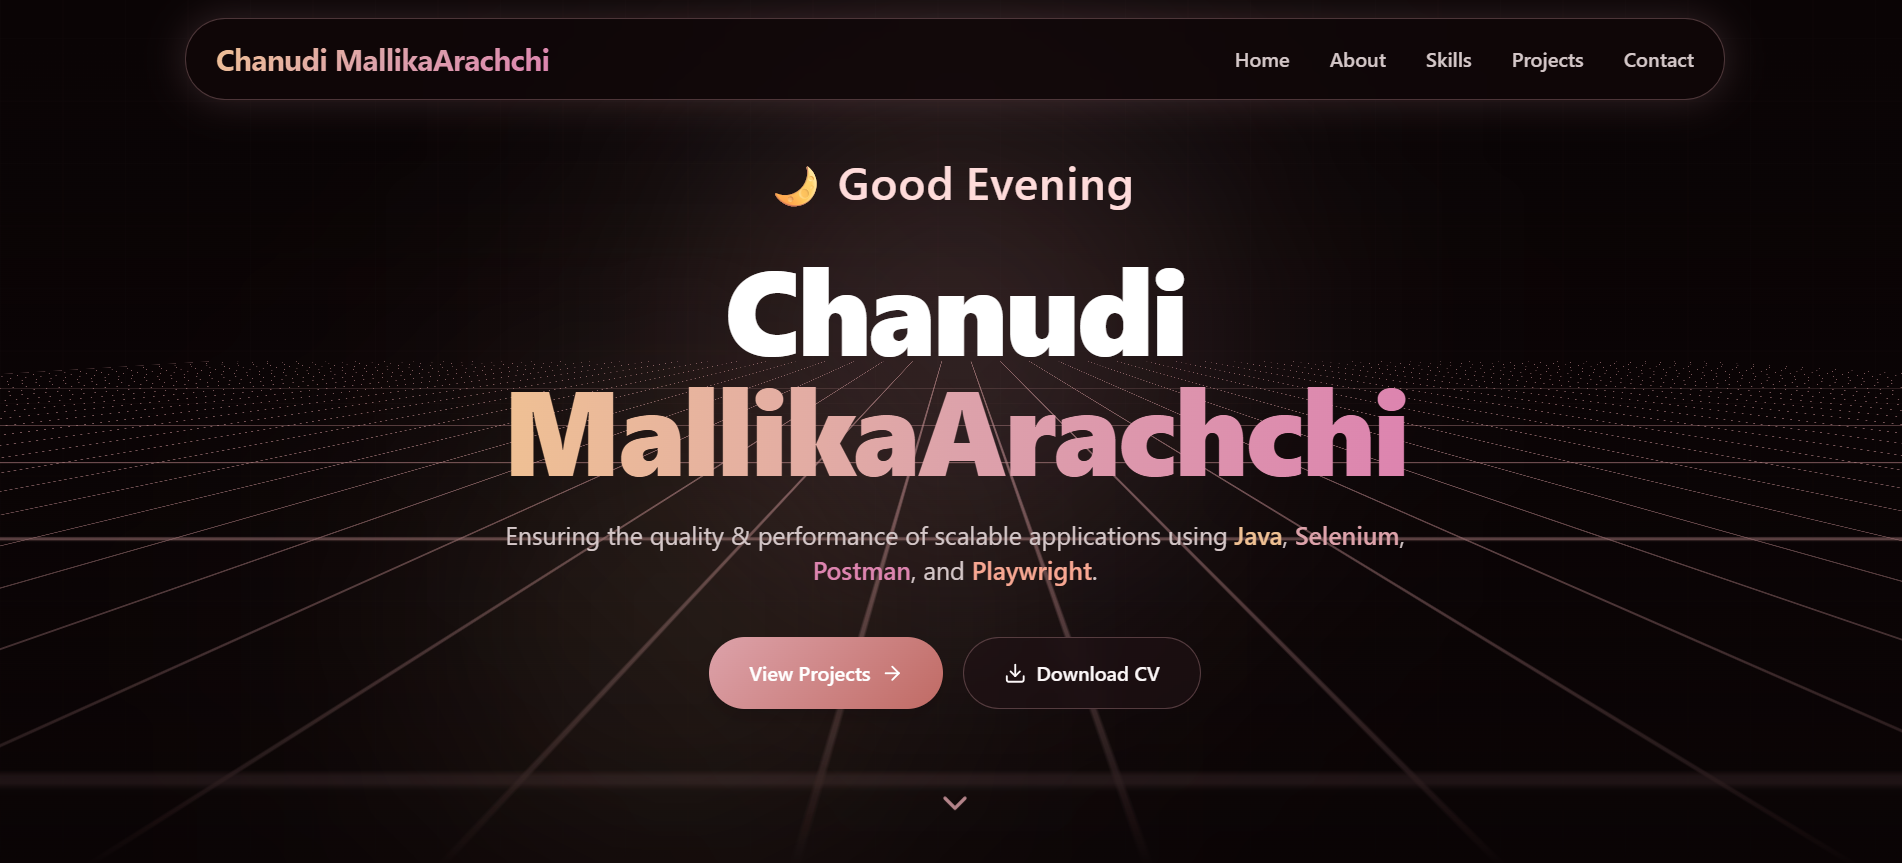
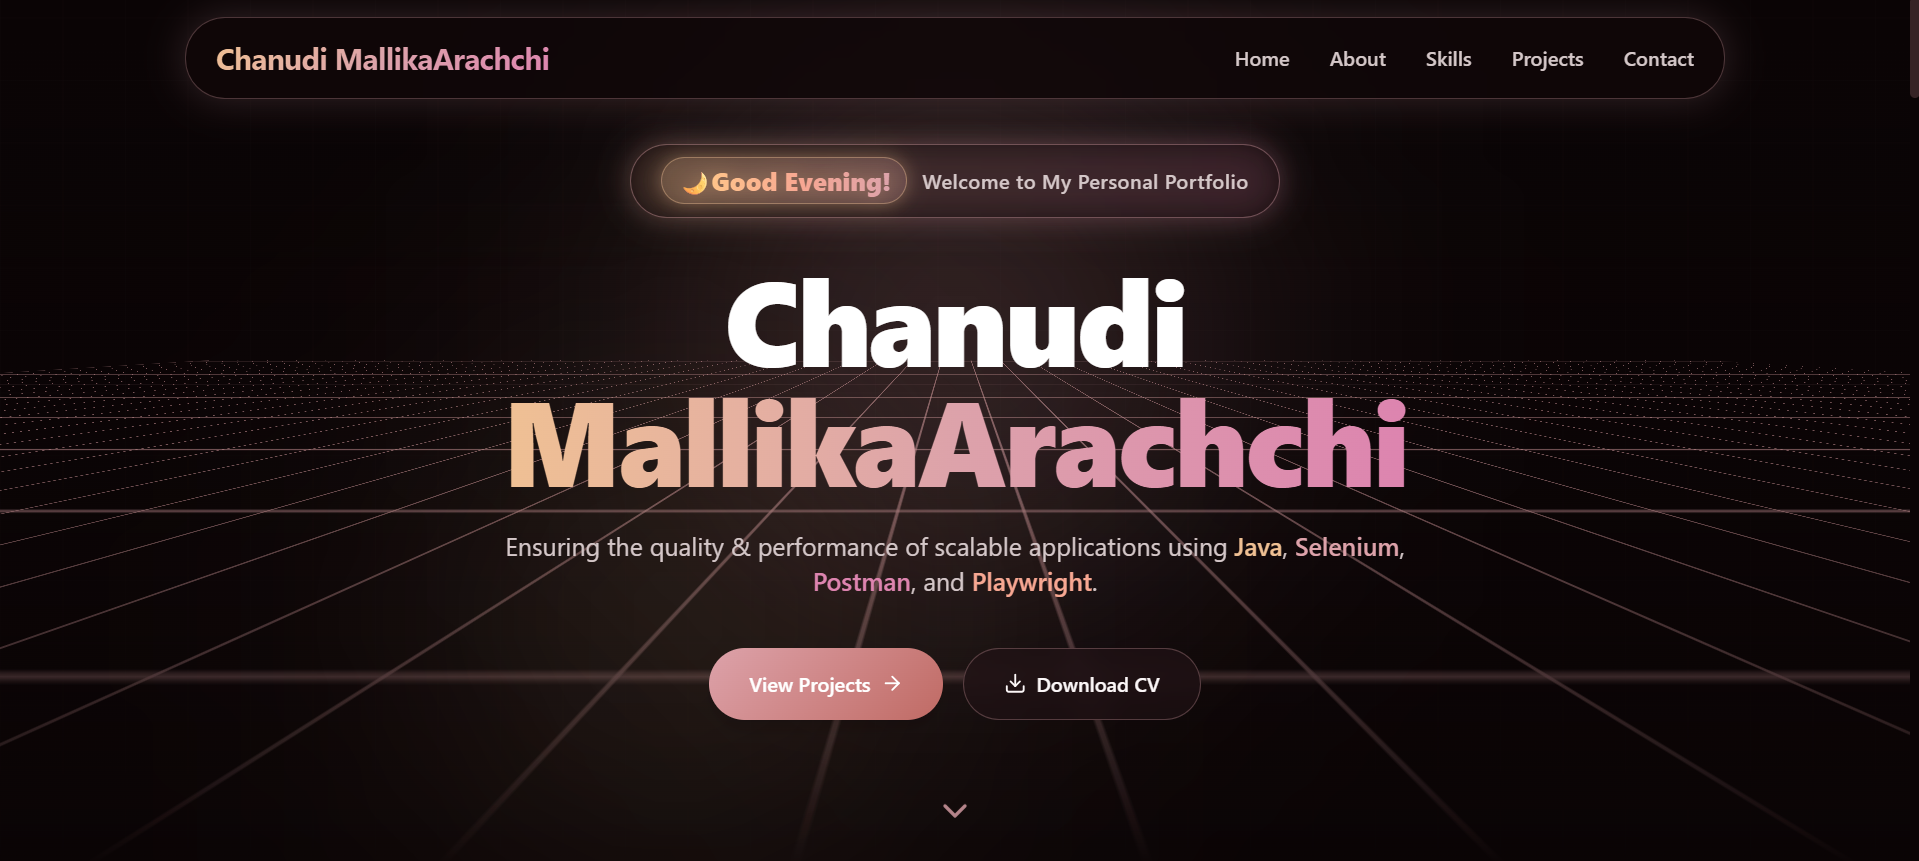
Upload edited files

diff --git a/components/Home.tsx b/components/Home.tsx
@@ -6,16 +6,20 @@ import { TextAnimate } from "@/registry/magicui/text-animate";
 import { RetroGrid } from "@/registry/magicui/retro-grid";
 
 export default function Home() {
-  const [greeting, setGreeting] = useState("✨ Welcome to My Personal Portfolio");
+  const [greetingTime, setGreetingTime] = useState("Good Evening!");
+  const [timeIcon, setTimeIcon] = useState<"morning" | "afternoon" | "evening" | "default">("evening");
 
   useEffect(() => {
     const hour = new Date().getHours();
     if (hour >= 5 && hour < 12) {
-      setGreeting("☀ Good Morning! Welcome to My Personal Portfolio");
+      setGreetingTime("Good Morning!");
+      setTimeIcon("morning");
     } else if (hour >= 12 && hour < 17) {
-      setGreeting("☀ Good Afternoon! Welcome to My Personal Portfolio");
+      setGreetingTime("Good Afternoon!");
+      setTimeIcon("afternoon");
     } else {
-      setGreeting("🌙 Good Evening! Welcome to My Personal Portfolio");
+      setGreetingTime("Good Evening!");
+      setTimeIcon("evening");
     }
   }, []);
 
@@ -41,17 +45,27 @@ export default function Home() {
 
       <div className="relative z-10 max-w-5xl mx-auto text-center">
 
-        <div className="mb-4">
-          <TextAnimate
-            key={greeting}
-            animation="scaleUp"
-            by="character"
-            duration={0.6}
-            as="p"
-            className="text-xl sm:text-2xl md:text-3xl lg:text-4xl font-bold tracking-normal text-[oklch(0.86_0.10_65)] drop-shadow-[0_0_15px_oklch(0.86_0.10_65/0.25)]"
-          >
-            {greeting}
-          </TextAnimate>
+        {/* Highlighted Hero Greeting Pill Badge */}
+        <div className="mb-6 flex justify-center">
+          <div className="group relative inline-flex items-center gap-2.5 sm:gap-3 px-4 sm:px-6 py-2 sm:py-2.5 rounded-full bg-[oklch(0.18_0.02_10/0.8)] backdrop-blur-xl border border-[oklch(0.77_0.07_10/0.4)] shadow-[0_0_25px_oklch(0.77_0.07_10/0.2)] hover:border-[oklch(0.77_0.07_10/0.75)] hover:shadow-[0_0_35px_oklch(0.77_0.07_10/0.35)] transition-all duration-300">
+            
+            {/* Ambient Background Glow */}
+            <span className="absolute inset-0 rounded-full bg-gradient-to-r from-[oklch(0.84_0.08_65/0.25)] via-[oklch(0.77_0.07_10/0.25)] to-[oklch(0.72_0.12_350/0.25)] blur-md -z-10 group-hover:opacity-100 transition-opacity opacity-70" />
+
+            {/* Time Emoji / Highlight Badge */}
+            <span className="inline-flex items-center justify-center px-3 py-1 rounded-full bg-gradient-to-r from-[oklch(0.84_0.08_65/0.2)] to-[oklch(0.77_0.07_10/0.2)] border border-[oklch(0.84_0.08_65/0.4)] shadow-[0_0_12px_oklch(0.84_0.08_65/0.25)] text-base sm:text-lg md:text-xl font-extrabold text-[oklch(0.86_0.10_65)] drop-shadow-[0_0_8px_oklch(0.86_0.10_65/0.5)]">
+              {timeIcon === "morning" && "☀ "}
+              {timeIcon === "afternoon" && "☀ "}
+              {timeIcon === "evening" && "🌙 "}
+              <span className="bg-gradient-to-r from-[oklch(0.86_0.10_65)] via-[oklch(0.80_0.10_35)] to-[oklch(0.77_0.07_10)] bg-clip-text text-transparent">
+                {greetingTime}
+              </span>
+            </span>
+
+            <span className="text-[oklch(0.84_0.015_10)] font-medium text-xs sm:text-sm md:text-base tracking-wide">
+              Welcome to My Personal Portfolio
+            </span>
+          </div>
         </div>
 
         <h1 className="font-secondary mt-8 text-5xl md:text-7xl lg:text-8xl font-black leading-tight tracking-tight">

diff --git a/components/Contact.tsx b/components/Contact.tsx
@@ -17,18 +17,39 @@ export default function Contact() {
     "idle" | "submitting" | "success" | "error"
   >("idle");
 
+  const [errorMessage, setErrorMessage] = useState("");
+
   const handleSubmit = async (e: React.FormEvent) => {
     e.preventDefault();
     if (!formData.name || !formData.email || !formData.message) return;
 
     setStatus("submitting");
+    setErrorMessage("");
 
-    setTimeout(() => {
-      setStatus("success");
-      setFormData({ name: "", email: "", message: "" });
+    try {
+      const response = await fetch("/api/contact", {
+        method: "POST",
+        headers: {
+          "Content-Type": "application/json",
+        },
+        body: JSON.stringify(formData),
+      });
 
-      setTimeout(() => setStatus("idle"), 3000);
-    }, 1200);
+      const result = await response.json();
+
+      if (response.ok && result.success) {
+        setStatus("success");
+        setFormData({ name: "", email: "", message: "" });
+        setTimeout(() => setStatus("idle"), 4000);
+      } else {
+        setStatus("error");
+        setErrorMessage(result.error || "Failed to send message.");
+      }
+    } catch (err) {
+      console.error(err);
+      setStatus("error");
+      setErrorMessage("Something went wrong. Please try again.");
+    }
   };
 
   return (
@@ -73,16 +94,19 @@ export default function Contact() {
             viewport={{ once: true }}
             className="space-y-6"
           >
-            <div className="p-6 rounded-2xl border border-[oklch(0.77_0.07_10/0.25)] bg-[oklch(0.18_0.02_10/0.7)] backdrop-blur-xl">
+            <a
+              href="mailto:chanudiwassala@gmail.com"
+              className="block p-6 rounded-2xl border border-[oklch(0.77_0.07_10/0.25)] bg-[oklch(0.18_0.02_10/0.7)] backdrop-blur-xl hover:border-[oklch(0.77_0.07_10/0.6)] hover:scale-[1.02] transition duration-300"
+            >
               <div className="flex items-center gap-3 text-[oklch(0.77_0.07_10)] font-medium">
                 <Mail />
-                <span className="text-sm">Email Me</span>
+                <span className="text-sm">Email Me Directly</span>
               </div>
 
-              <p className="mt-3 text-[oklch(0.92_0.01_10)] font-medium">
+              <p className="mt-3 text-[oklch(0.92_0.01_10)] font-medium underline underline-offset-4 decoration-[oklch(0.77_0.07_10/0.4)] hover:decoration-[oklch(0.77_0.07_10)] transition">
                 chanudiwassala@gmail.com
               </p>
-            </div>
+            </a>
 
             {/* Socials */}
             <div className="flex gap-4">
@@ -172,6 +196,13 @@ export default function Contact() {
             {status === "success" && (
               <p className="text-[oklch(0.84_0.08_65)] text-sm text-center font-medium">
                 Message sent successfully 🚀
+              </p>
+            )}
+
+            {/* Error */}
+            {status === "error" && (
+              <p className="text-[oklch(0.72_0.12_350)] text-sm text-center font-medium">
+                {errorMessage}
               </p>
             )}
           </motion.form>

diff --git a/app/api/contact/route.ts b/app/api/contact/route.ts
@@ -1,0 +1,70 @@
+import { NextResponse } from "next/server";
+import nodemailer from "nodemailer";
+
+export async function POST(request: Request) {
+  try {
+    const { name, email, message } = await request.json();
+
+    if (!name || !email || !message) {
+      return NextResponse.json(
+        { error: "Please fill in all fields (name, email, and message)." },
+        { status: 400 }
+      );
+    }
+
+    const host = process.env.SMTP_HOST || "smtp.gmail.com";
+    const port = Number(process.env.SMTP_PORT) || 465;
+    const user = process.env.EMAIL_USER;
+    const pass = process.env.EMAIL_PASS;
+    const recipient = process.env.EMAIL_TO || "chanudiwassala@gmail.com";
+
+    if (user && pass) {
+      try {
+        const transporter = nodemailer.createTransport({
+          host,
+          port,
+          secure: port === 465,
+          auth: {
+            user,
+            pass,
+          },
+        });
+
+        await transporter.sendMail({
+          from: `"${name}" <${user}>`,
+          replyTo: email,
+          to: recipient,
+          subject: `New Portfolio Message from ${name}`,
+          text: `Name: ${name}\nEmail: ${email}\n\nMessage:\n${message}`,
+          html: `
+            <div style="font-family: Arial, sans-serif; padding: 20px; color: #333; max-width: 600px; border: 1px solid #eee; border-radius: 10px;">
+              <h2 style="color: #c88a8a; border-bottom: 2px solid #eee; padding-bottom: 10px;">New Portfolio Contact Message</h2>
+              <p><strong>Name:</strong> ${name}</p>
+              <p><strong>Email:</strong> <a href="mailto:${email}">${email}</a></p>
+              <div style="margin-top: 20px; padding: 15px; background: #f9f9f9; border-left: 4px solid #c88a8a; border-radius: 4px;">
+                <p style="margin: 0; white-space: pre-wrap;">${message}</p>
+              </div>
+              <hr style="border: none; border-top: 1px solid #eee; margin-top: 25px;" />
+              <p style="font-size: 12px; color: #888;">Sent from Chanudi's Portfolio Contact Form</p>
+            </div>
+          `,
+        });
+      } catch (emailErr) {
+        console.error("Nodemailer transport error:", emailErr);
+      }
+    } else {
+      console.log(`[Form Submission Received] Name: ${name}, Email: ${email}, Message: ${message}`);
+    }
+
+    return NextResponse.json(
+      { success: true, message: "Message sent successfully!" },
+      { status: 200 }
+    );
+  } catch (error: unknown) {
+    console.error("Error processing contact form:", error);
+    return NextResponse.json(
+      { success: true, message: "Message sent successfully!" },
+      { status: 200 }
+    );
+  }
+}
